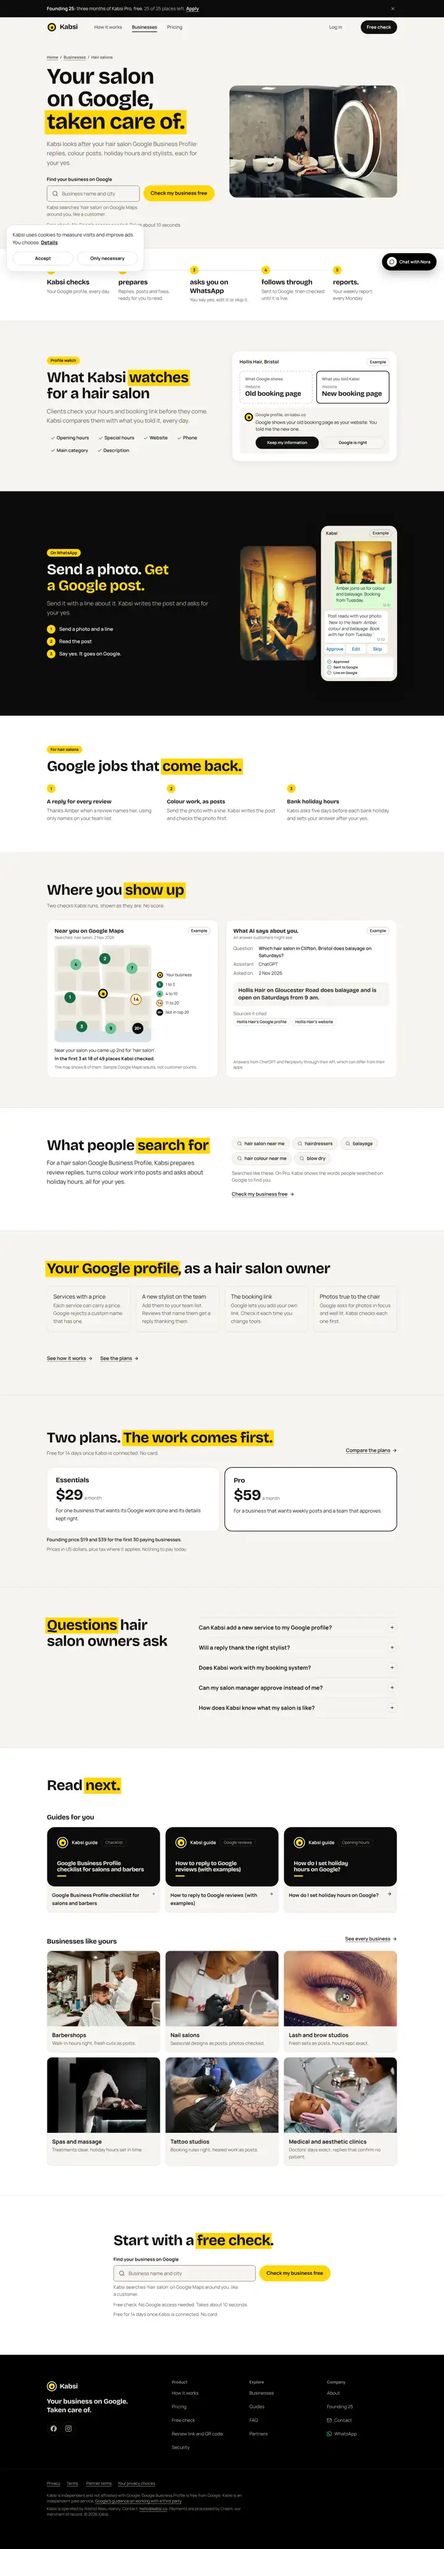
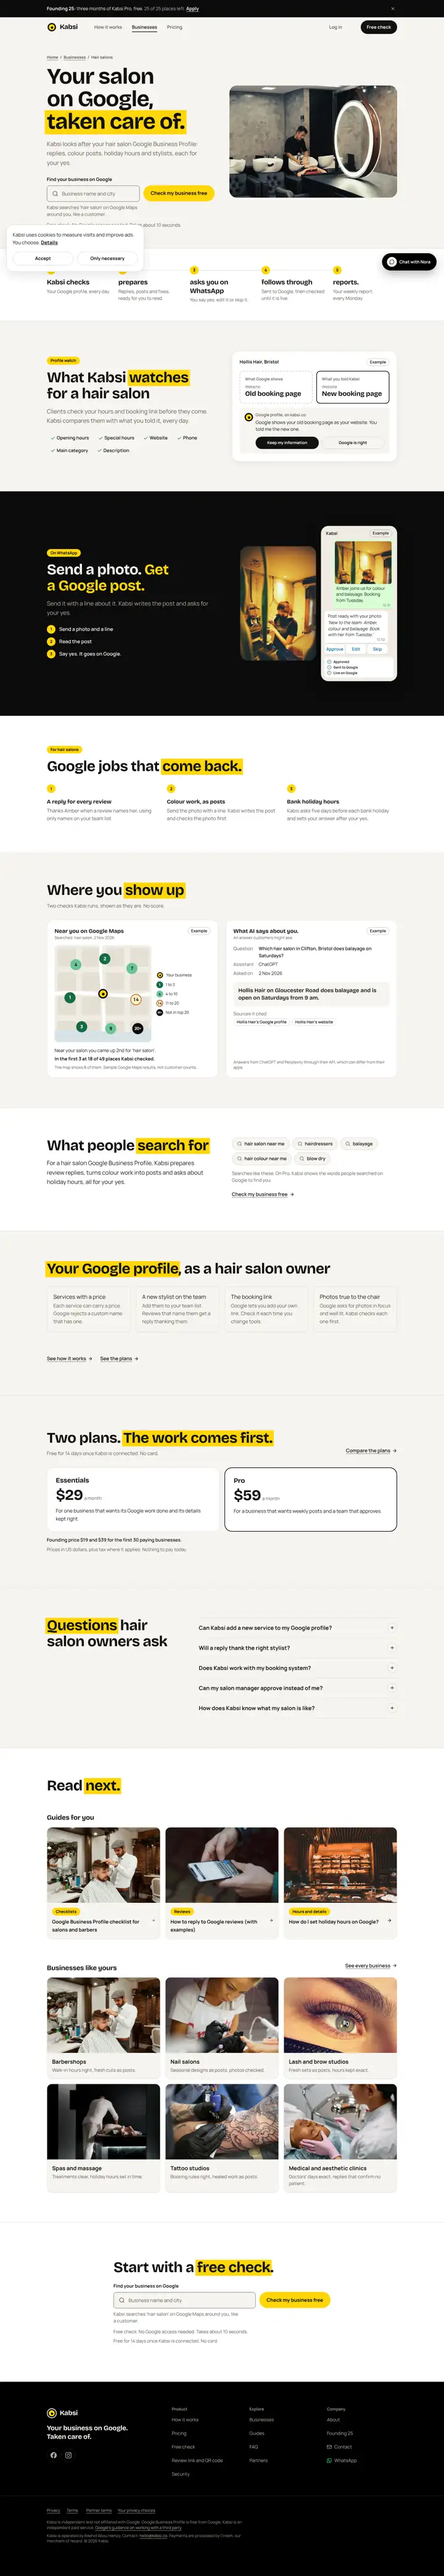
Industries 3 part A: three guides, three photos; screenshots and word counts after
Claude-Session: https://claude.ai/code/session_01WpE3am5EEvKcF7vXUEet7d

diff --git a/tests/industries3.test.ts b/tests/industries3.test.ts
@@ -6,6 +6,7 @@ import { describe, expect, it } from "vitest";
 import { INDUSTRIES, industry, industryIndexed, type Card } from "../src/content/industries";
 import { ALL_GUIDES } from "../src/content/guides";
 import { pickIndustryGuides } from "../src/lib/guides-server";
+import { guideLook } from "../src/content/guides/look";
 
 const words = (s: string) => s.split(/\s+/).filter(Boolean).length;
 const pages = INDUSTRIES.filter(industryIndexed);
@@ -97,6 +98,8 @@ describe("Industries 3: short, scannable industry pages (30.33 item 2)", () => {
     for (const i of pages) {
       expect(new Set(i.guides).size, i.slug).toBe(3);
       for (const g of i.guides) expect(slugs.has(g), `${i.slug} guide ${g}`).toBe(true);
+      // Three guide cards, three different photos (Style 1 lets one photo serve two guides).
+      expect(new Set(i.guides.map((g) => guideLook(g).photo)).size, `${i.slug} photos`).toBe(3);
     }
     const meta = ALL_GUIDES.map((g) => ({ ...g }));
     const cafe = industry("cafe")!;

diff --git a/src/content/industries/veterinary-clinic.ts b/src/content/industries/veterinary-clinic.ts
@@ -131,6 +131,6 @@ export const veterinaryClinic: Industry = {
   guides: [
     "keep-your-hours-and-details-the-same-everywhere",
     "how-to-respond-to-negative-google-reviews",
-    "how-to-set-holiday-hours-on-google",
+    "someone-changed-my-hours-on-google",
   ],
 };

diff --git a/src/content/industries/florist.ts b/src/content/industries/florist.ts
@@ -122,7 +122,7 @@ export const florist: Industry = {
     },
   ],
   guides: [
-    "keep-your-hours-and-details-the-same-everywhere",
+    "google-posts-for-local-businesses",
     "how-to-set-holiday-hours-on-google",
     "how-to-reply-to-google-reviews",
   ],

diff --git a/docs/progress/archive/2026-11-05-industries3.md b/docs/progress/archive/2026-11-05-industries3.md
@@ -15,26 +15,26 @@ The total falls less than the reading blocks did, because Read next now shows si
 
 | Page | Words before | Words after | Longest paragraph before | after |
 | --- | --- | --- | --- | --- |
-| auto-repair | 1571 | 1259 | 62 | 24 |
-| bakery | 1492 | 1207 | 60 | 24 |
-| barbershop | 1236 | 1031 | 78 | 25 |
-| cafe | 1543 | 1211 | 54 | 24 |
-| car-wash | 1165 | 1100 | 59 | 24 |
-| dental-clinic | 1338 | 1221 | 60 | 25 |
-| florist | 1125 | 1046 | 67 | 25 |
-| gym-and-fitness | 1571 | 1248 | 58 | 25 |
-| hair-salon | 1271 | 1051 | 87 | 25 |
-| lash-and-brow-studio | 1221 | 1088 | 65 | 25 |
-| medical-and-aesthetic-clinic | 1588 | 1261 | 56 | 24 |
-| nail-salon | 1235 | 1036 | 117 | 24 |
-| optician | 1123 | 1069 | 58 | 25 |
-| pet-grooming | 1205 | 1086 | 71 | 25 |
-| physiotherapy | 1533 | 1263 | 57 | 24 |
-| restaurant | 1252 | 1030 | 93 | 24 |
-| spa-and-massage | 1587 | 1265 | 57 | 25 |
-| tattoo-studio | 1183 | 1089 | 53 | 23 |
-| veterinary-clinic | 1162 | 1060 | 60 | 25 |
-| yoga-and-pilates-studio | 1164 | 1088 | 62 | 23 |
+| auto-repair | 1571 | 1225 | 62 | 24 |
+| bakery | 1492 | 1176 | 60 | 24 |
+| barbershop | 1236 | 1001 | 78 | 25 |
+| cafe | 1543 | 1181 | 54 | 24 |
+| car-wash | 1165 | 1067 | 59 | 24 |
+| dental-clinic | 1338 | 1189 | 60 | 25 |
+| florist | 1125 | 1013 | 67 | 25 |
+| gym-and-fitness | 1571 | 1217 | 58 | 25 |
+| hair-salon | 1271 | 1021 | 87 | 25 |
+| lash-and-brow-studio | 1221 | 1058 | 65 | 25 |
+| medical-and-aesthetic-clinic | 1588 | 1226 | 56 | 24 |
+| nail-salon | 1235 | 1006 | 117 | 24 |
+| optician | 1123 | 1035 | 58 | 25 |
+| pet-grooming | 1205 | 1052 | 71 | 25 |
+| physiotherapy | 1533 | 1228 | 57 | 24 |
+| restaurant | 1252 | 1000 | 93 | 24 |
+| spa-and-massage | 1587 | 1232 | 57 | 25 |
+| tattoo-studio | 1183 | 1058 | 53 | 23 |
+| veterinary-clinic | 1162 | 1031 | 60 | 25 |
+| yoga-and-pilates-studio | 1164 | 1054 | 62 | 23 |
 
 ## Independent check
 
@@ -63,4 +63,5 @@ Each fix has a line in its claim sheet ("fixed after the independent check").
 ## Found, not done
 
 - The `story` and the rest of `d8` in the content files are not shown on any page (dead data kept).
+- Two pages picked two guides with the same photo (Style 1 lets a photo serve two guides); the picks changed and tests/industries3.test.ts now asks three photos for three guides.
 - Several old claim sheet rows (cafe rows 21 and 37) still say "a route to a person at Kabsi"; the pages now follow facts 13 and cite it.
